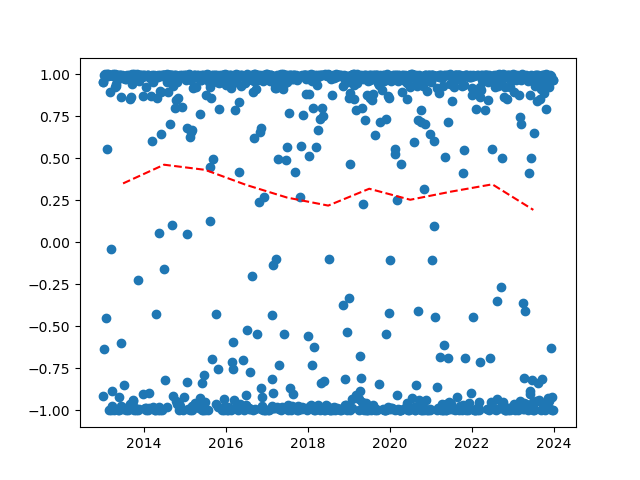
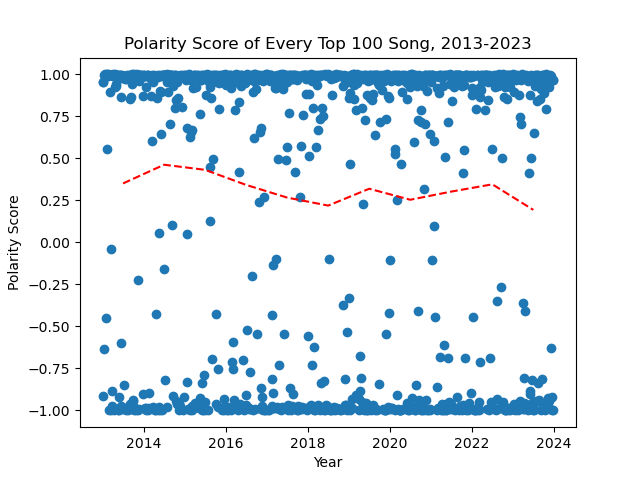
Pylint/Black Formatting and minor adjustments, deleted unnecessary file

Changed region(s): [[0.1875, 0.0625, 0.8438, 0.125], [0.0, 0.4062, 0.0312, 0.625], [0.5, 0.9375, 0.5312, 1.0]]

diff --git a/final_data_visualizations.py b/final_data_visualizations.py
@@ -1,18 +1,18 @@
-# FIRST VISUALIZATION
+"""
+This module produces the 3 visualizations of our data.
+"""
 
+import csv
 import numpy as np
 import pandas as pd
 import nltk
+from nltk.sentiment.vader import SentimentIntensityAnalyzer
 import matplotlib.pyplot as plt
 from matplotlib.patheffects import withSimplePatchShadow
 import mplcursors  # separate package must be installed
 import helper_function
-import csv
-import re
-from wordcloud import WordCloud
 
 nltk.download("vader_lexicon")  # Run this line the first time you run this code
-from nltk.sentiment.vader import SentimentIntensityAnalyzer
 
 # Initialize the sentiment analyzer
 analyzer = SentimentIntensityAnalyzer()
@@ -21,6 +21,7 @@ analyzer = SentimentIntensityAnalyzer()
 loaded_data = pd.read_csv("billboard_data_with_lyrics")
 lyrics_data = loaded_data["Lyrics"]
 
+# FIRST VISUALIZATION
 positivity_scores = []
 
 # Add a Positivity series to the Billboard dataframe
@@ -63,7 +64,9 @@ years = [
 
 plt.figure()
 plt.plot(years, scores, "r--")  # plot general trend line
-
+plt.xlabel("Year")
+plt.ylabel("Polarity Score")
+plt.title("Polarity Score of Every Top 100 Song, 2013-2023")
 # Plot every song and its score
 indiv_scores = plt.scatter(
     np.linspace(2013, 2023.99, num=1100), positivity_scores
@@ -99,7 +102,7 @@ def show_hover_panel(get_text_func=None):
             arrowprops=None,
         ),
         highlight=True,
-        highlight_kwargs=dict(linewidth=2),
+        highlight_kwargs={"linewidth": 2},
     )
 
     if get_text_func:
@@ -131,7 +134,7 @@ def on_add(index):
         ]
         return "\n".join(parts)
     except KeyError:  # don't hover when the cursor is over the trendline
-        pass
+        return None
 
 
 show_hover_panel(on_add)  # add hover labels
@@ -180,13 +183,11 @@ with open("billboard_data_with_lyrics.csv", mode="r", encoding="utf-8") as file:
                 continue
 
             if artist in polarity_score:
-
                 polarity_score[artist] += helper_function.polarity(
                     rows[j * 100 + i][4]
                 )["compound"]
                 polarity_count[artist] += 1
             else:
-
                 polarity_score[artist] = helper_function.polarity(
                     rows[j * 100 + i][4]
                 )["compound"]
@@ -204,16 +205,16 @@ all_scores = [
 ]
 global_min = min(all_scores)
 global_max = max(all_scores)
-ncols = 3
-nrows = len(top_artist_polarityscore) // ncols + (
-    len(top_artist_polarityscore) % ncols > 0
+NCOLS = 3
+NROWS = len(top_artist_polarityscore) // NCOLS + (
+    len(top_artist_polarityscore) % NCOLS > 0
 )
 
 # Create a large figure to hold all subplots
-plt.figure(figsize=(ncols * 5, nrows * 5))  # Width and height of entire figure
+plt.figure(figsize=(NCOLS * 5, NROWS * 5))  # Width and height of entire figure
 
 for i, yearly_data in enumerate(extended_data, start=1):
-    ax = plt.subplot(nrows, ncols, i)
+    ax = plt.subplot(NROWS, NCOLS, i)
     artists = list(yearly_data.keys())
     scores = list(yearly_data.values())
     y_pos = np.arange(len(artists))
@@ -227,7 +228,7 @@ for i, yearly_data in enumerate(extended_data, start=1):
     ax.set_ylim(global_min, global_max)
 
     # Set the y-axis label only for the leftmost subplots
-    if i % ncols == 1:
+    if i % NCOLS == 1:
         ax.set_ylabel("Average Polarity Score")
 
 # Adjust the layout so labels and titles do not overlap
@@ -240,7 +241,7 @@ plt.show()
 
 # NEGATIVE WORDS WORDCLOUD
 
-csv_file_path = "billboard_data_with_lyrics.csv"
+CSV_FILE_PATH = "billboard_data_with_lyrics.csv"
 
 # List of words that are not very interesting, don't have interesting changes,
 # and reduce the effectiveness of the word cloud visual
@@ -260,7 +261,7 @@ irrelevant_words = [
     "woo",
 ]
 
-with open(csv_file_path, encoding="utf8", newline="") as csvfile:
+with open(CSV_FILE_PATH, encoding="utf8", newline="") as csvfile:
     csvreader = csv.reader(csvfile)
 
     words_dictionary = {}
@@ -283,22 +284,23 @@ with open(csv_file_path, encoding="utf8", newline="") as csvfile:
             if helper_function.polarity(word)["compound"] < -0.3:
                 # Choose the correct dictionary based on the count
                 current_dict = list_of_dictionary[count // 400]
-                # Use get to avoid KeyError, defaults to 0 if the key doesn't exist
+                # Use get to avoid KeyError, defaults to 0 if the key doesn't
+                # exist
                 current_dict[word] = current_dict.get(word, 0) + 1
 
 
 # Generate the word cloud
-year = 2013
+YEAR = 2013
 for i in range(3):
     helper_function.generate_word_cloud_from_frequencies(
         list_of_dictionary[i],
-        f"Negative Word Cloud From Year {year} to {year + 3 - (i == 2)} ",
+        f"Negative Word Cloud From Year {YEAR} to {YEAR + 3 - (i == 2)} ",
     )
-    year += 4
+    YEAR += 4
 
 # POSITIVE WORDS WORDCLOUD
 
-with open(csv_file_path, newline="") as csvfile:
+with open(CSV_FILE_PATH, encoding="utf8", newline="") as csvfile:
     csvreader = csv.reader(csvfile)
 
     words_dictionary = {}
@@ -321,14 +323,15 @@ with open(csv_file_path, newline="") as csvfile:
             if helper_function.polarity(word)["compound"] > 0.3:
                 # Choose the correct dictionary based on the count
                 current_dict = list_of_dictionary[count // 400]
-                # Use get to avoid KeyError, defaults to 0 if the key doesn't exist
+                # Use get to avoid KeyError, defaults to 0 if the key doesn't
+                # exist
                 current_dict[word] = current_dict.get(word, 0) + 1
 
 # Generate the word cloud
-year = 2013
+YEAR = 2013
 for i in range(3):
     helper_function.generate_word_cloud_from_frequencies(
         list_of_dictionary[i],
-        f"Positive Word Cloud From Year {year} to {year + 3 - (i == 2)} ",
+        f"Positive Word Cloud From Year {YEAR} to {YEAR + 3 - (i == 2)} ",
     )
-    year += 4
+    YEAR += 4

diff --git a/test_helper_functions.py b/test_helper_functions.py
@@ -1,4 +1,10 @@
+"""
+This module contains unit tests for all applicable function in the
+helper_function file.
+"""
+
 import pytest
+import pandas as pd
 from helper_function import (
     remove_features,
     format_genius_lyrics,
@@ -42,7 +48,6 @@ FORMAT_GENIUS_LYRICS_CASES = [
 ]
 
 # Create some test data for the generate function to process
-import pandas as pd
 
 test_data = pd.DataFrame(
     {
@@ -92,7 +97,8 @@ SPLIT_TEXT_INTO_WORDS_CASES = [
             "Words",
         ],
     ),
-    # Test that punctutation, newlines, and multiple spaces are not counted as words
+    # Test that punctutation, newlines, and multiple spaces are not counted as
+    # words
     ("     \n  ?!><.:;   ", []),
     # Test that punctuations are not counted as part of words
     (
@@ -116,8 +122,8 @@ def test_remove_features(title_input, title_output):
 
     Args:
         title_input: a string representing the song's artists
-        title_output: a string representing the song's artists (now excluding featured
-        artists).
+        title_output: a string representing the song's artists (now excluding
+        featured artists).
     """
     assert remove_features(title_input) == title_output
 
@@ -134,8 +140,8 @@ def test_format_genius_lyrics(lyrics_input, lyrics_output):
     well as random webpage oddities that occur when scraping data through the
     Genius API.
     Args:
-        lyrics_input: a string containing the scraped webpage data, which includes
-        (but is not entirely) the lyrics.
+        lyrics_input: a string containing the scraped webpage data, which
+        includes (but is not entirely) the lyrics.
         lyrics_output: a string representing the song's lyrics.
     """
     assert format_genius_lyrics(lyrics_input) == lyrics_output
@@ -148,10 +154,10 @@ def test_generate(dataframe_input, artists_output):
     generate function returns a list of all Artists from the dataframe, ensuring
     that artists that have multiple entries are included multiple times.
     Args:
-        dataframe_input: a dataframe containing a series titled "Artists", from which
-        the list of artists will be made.
-        dataframe_output: a list of all artists in the dataframe. Artists are included multiple times
-        if they have multiple songs on the chart.
+        dataframe_input: a dataframe containing a series titled "Artists", from
+        which the list of artists will be made.
+        dataframe_output: a list of all artists in the dataframe. Artists are
+        included multiple times if they have multiple songs on the chart.
     """
     assert generate(dataframe_input) == artists_output
 

diff --git a/helper_function.py b/helper_function.py
@@ -1,10 +1,15 @@
+"""
+This module includes all helper functions for our API call and data
+visualizations.
+"""
+
+import re
 import nltk
 import matplotlib.pyplot as plt
-import re
 from wordcloud import WordCloud
+from nltk.sentiment.vader import SentimentIntensityAnalyzer
 
 nltk.download("vader_lexicon")  # Run this line the first time you run this code
-from nltk.sentiment.vader import SentimentIntensityAnalyzer
 
 analyzer = SentimentIntensityAnalyzer()
 
@@ -79,8 +84,8 @@ def generate(dataframe):
         dataframe: a dataframe containing a series titled "Artists", from which
         the list of artists will be made.
     Returns:
-        a list of all artists in the dataframe. Artists are included multiple times
-        if they have multiple songs on the chart.
+        a list of all artists in the dataframe. Artists are included multiple
+        times if they have multiple songs on the chart.
     """
     artists = []
     for i in range(len(dataframe)):

diff --git a/api_call.py b/api_call.py
@@ -1,7 +1,13 @@
+"""
+This module uses the Genius API to scrape the song lyrics from every song on the
+year-end Billboard Hot 100 chart from 2013 to 2023 and stores those lyrics in a
+file.
+"""
+
 import pandas as pd
 from lyricsgenius import Genius
 import helper_function
-import api_key  # You'll have to make one of these yourself on the Genius website
+import api_key  # You'll have to make one of these on the Genius website
 
 genius = Genius(api_key.client_access_token)
 
